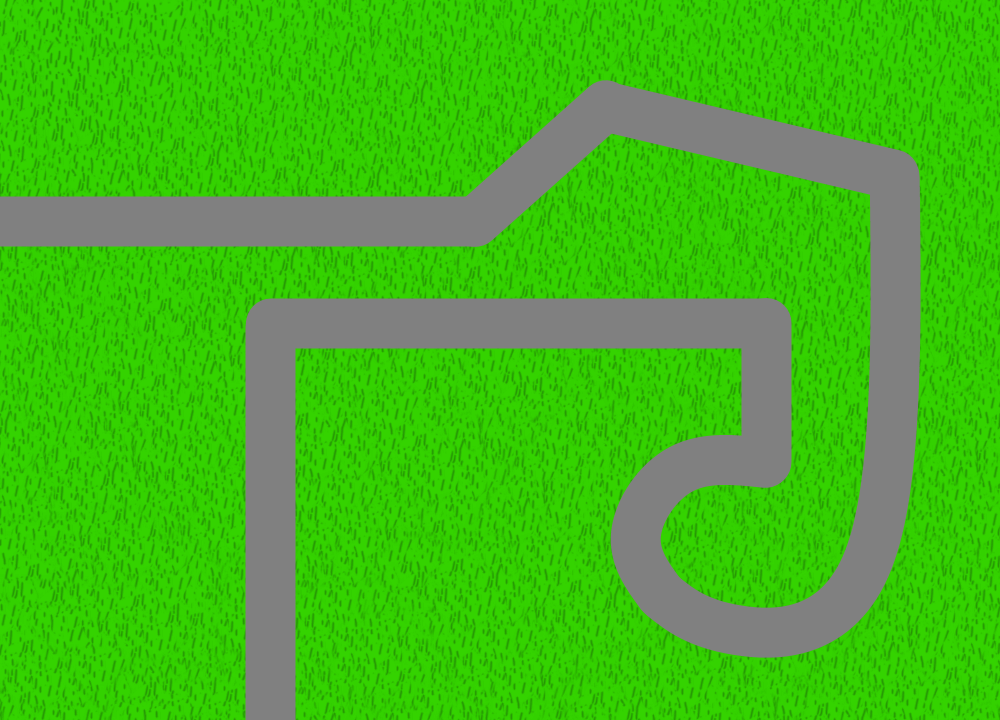
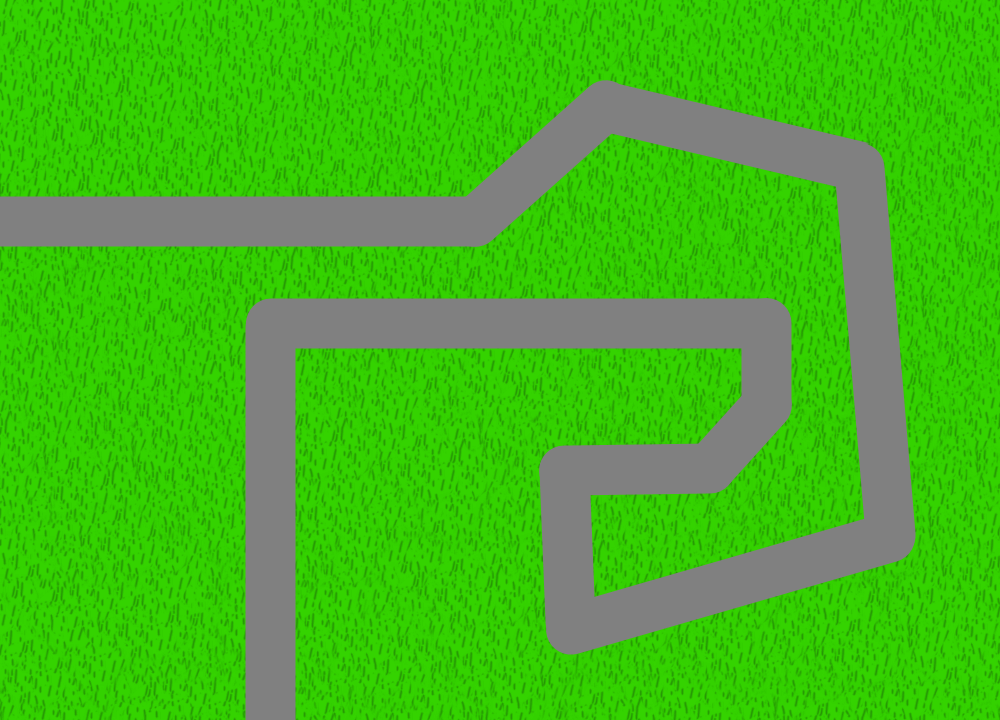
added map serialization and ObstacleObject

Changed region(s): [[0.527, 0.1222, 0.961, 0.9778]]

diff --git a/src/game/scenes/Map.java b/src/game/scenes/Map.java
@@ -1,13 +1,19 @@
 package game.scenes;
 
+import java.io.BufferedReader;
+import java.io.IOException;
+import java.util.ArrayList;
+
 import engine.math.Vector;
+import engine.utils.ResourceManager;
 import engine.utils.Sprite;
+import game.gameObjects.ObstacleObject;
 
 public class Map
 {
     public String name;
     public Sprite background;
-    //public ArrayList<Obstacle> obstacles;
+    public ArrayList<ObstacleObject> obstacles;
     public Path path;
     
     public Map(String name)
@@ -18,24 +24,68 @@ public class Map
     
     private void importMap()
     {
-        //import(mapName);
-        
-        // for testing only
-        background = new Sprite("backgrounds/test_bg");
-        path = new Path(
-            new Vector(690, 420),
-            new Vector(300, 50),
-            new Vector(300, 500),
-            new Vector(100, 500),
-            new Vector(100, 200),
-            new Vector(500, 200)
-        );
+        BufferedReader reader;
+        try
+        {
+            ArrayList<Vector> pathPoints = new ArrayList<Vector>();
+            obstacles = new ArrayList<ObstacleObject>();
+            
+            String line;
+            reader = ResourceManager.getReader("maps", name);
+            while((line = reader.readLine()) != null)
+            {
+                try
+                {
+                    String[] parts = line.split(" ");
+                    switch(parts[0])
+                    {
+                        case "b":
+                            background = new Sprite(parts[1]);
+                            break;
+                        
+                        case "p":
+                            pathPoints.add(new Vector(Double.parseDouble(parts[1]), Double.parseDouble(parts[2])));
+                            break;
+                        
+                        case "o":
+                            Vector pointA = new Vector(Double.parseDouble(parts[1]), Double.parseDouble(parts[2]));
+                            Vector pointB = new Vector(Double.parseDouble(parts[3]), Double.parseDouble(parts[4]));
+                            obstacles.add(ObstacleObject.fromPoints(pointA, pointB));
+                            break;
+                        
+                        default:
+                            throw new Exception("Invalid map file format!");
+                    }
+                }
+                catch(Exception e)
+                {
+                    reader.close(); // this is important
+                    e.printStackTrace();
+                }
+            }
+            reader.close();
+            
+            Vector[] pathPointsArray = new Vector[pathPoints.size()];
+            for(int i = 0; i < pathPoints.size(); i++)
+            {
+                pathPointsArray[i] = pathPoints.get(i);
+            }
+            path = new Path(pathPointsArray);
+        }
+        catch(IOException e)
+        {
+            e.printStackTrace();
+        }
     }
     
-    // the background and the obstacles are GameObjects and must be added to the Scene
+    // the obstacles are GameObjects and must be added to the Scene
     public void addGameObjects(GameSceneNicht scene)
     {
-        //add background and obstacles
+        for(ObstacleObject g : obstacles)
+        {
+            scene.addObject(g);
+        }
+        
         scene.addObject(path); // debug
     }
 }

diff --git a/src/game/gameObjects/ObstacleObject.java b/src/game/gameObjects/ObstacleObject.java
@@ -1,0 +1,45 @@
+package game.gameObjects;
+
+import engine.math.Vector;
+import engine.scene.CollisionGameObject;
+import engine.utils.Sprite;
+import engine.window.RenderLayer;
+
+public class ObstacleObject extends CollisionGameObject
+{
+    private Sprite sprite; // debug
+    
+    public ObstacleObject(Vector position, Vector size)
+    {
+        super(0);
+        this.position = position;
+        this.size = size;
+        
+        sprite = new Sprite("box_20x20"); // debug
+    }
+    
+    /**
+     * @param pointA top left corner
+     * @param pointB bottom right corner
+     * @return resulting Obstacle Object
+     */
+    public static ObstacleObject fromPoints(Vector pointA, Vector pointB)
+    {
+        Vector s = pointB.sub(pointA);
+        return new ObstacleObject(pointA.add(s.div(2)), s);
+    }
+    
+    // TODO: remove debug stuff
+    
+    // debug
+    @Override
+    public void render(RenderLayer layer, double deltaTime)
+    {
+        if(layer.name() == "test")
+        {
+            sprite.position = position.sub(size.div(2));
+            sprite.size = size.clone();
+            layer.renderSprite(sprite);
+        }
+    }
+}

diff --git a/src/Main.java b/src/Main.java
@@ -13,7 +13,7 @@ public class Main
         Engine engine = new Engine(WIDTH, HEIGHT, 120, 60, renderLayers);
         
         //Scene scene = new TestScene();
-        Scene scene = new GameSceneNicht("");
+        Scene scene = new GameSceneNicht("test_map");
         
         engine.setActiveScene(scene);
         engine.activate();
